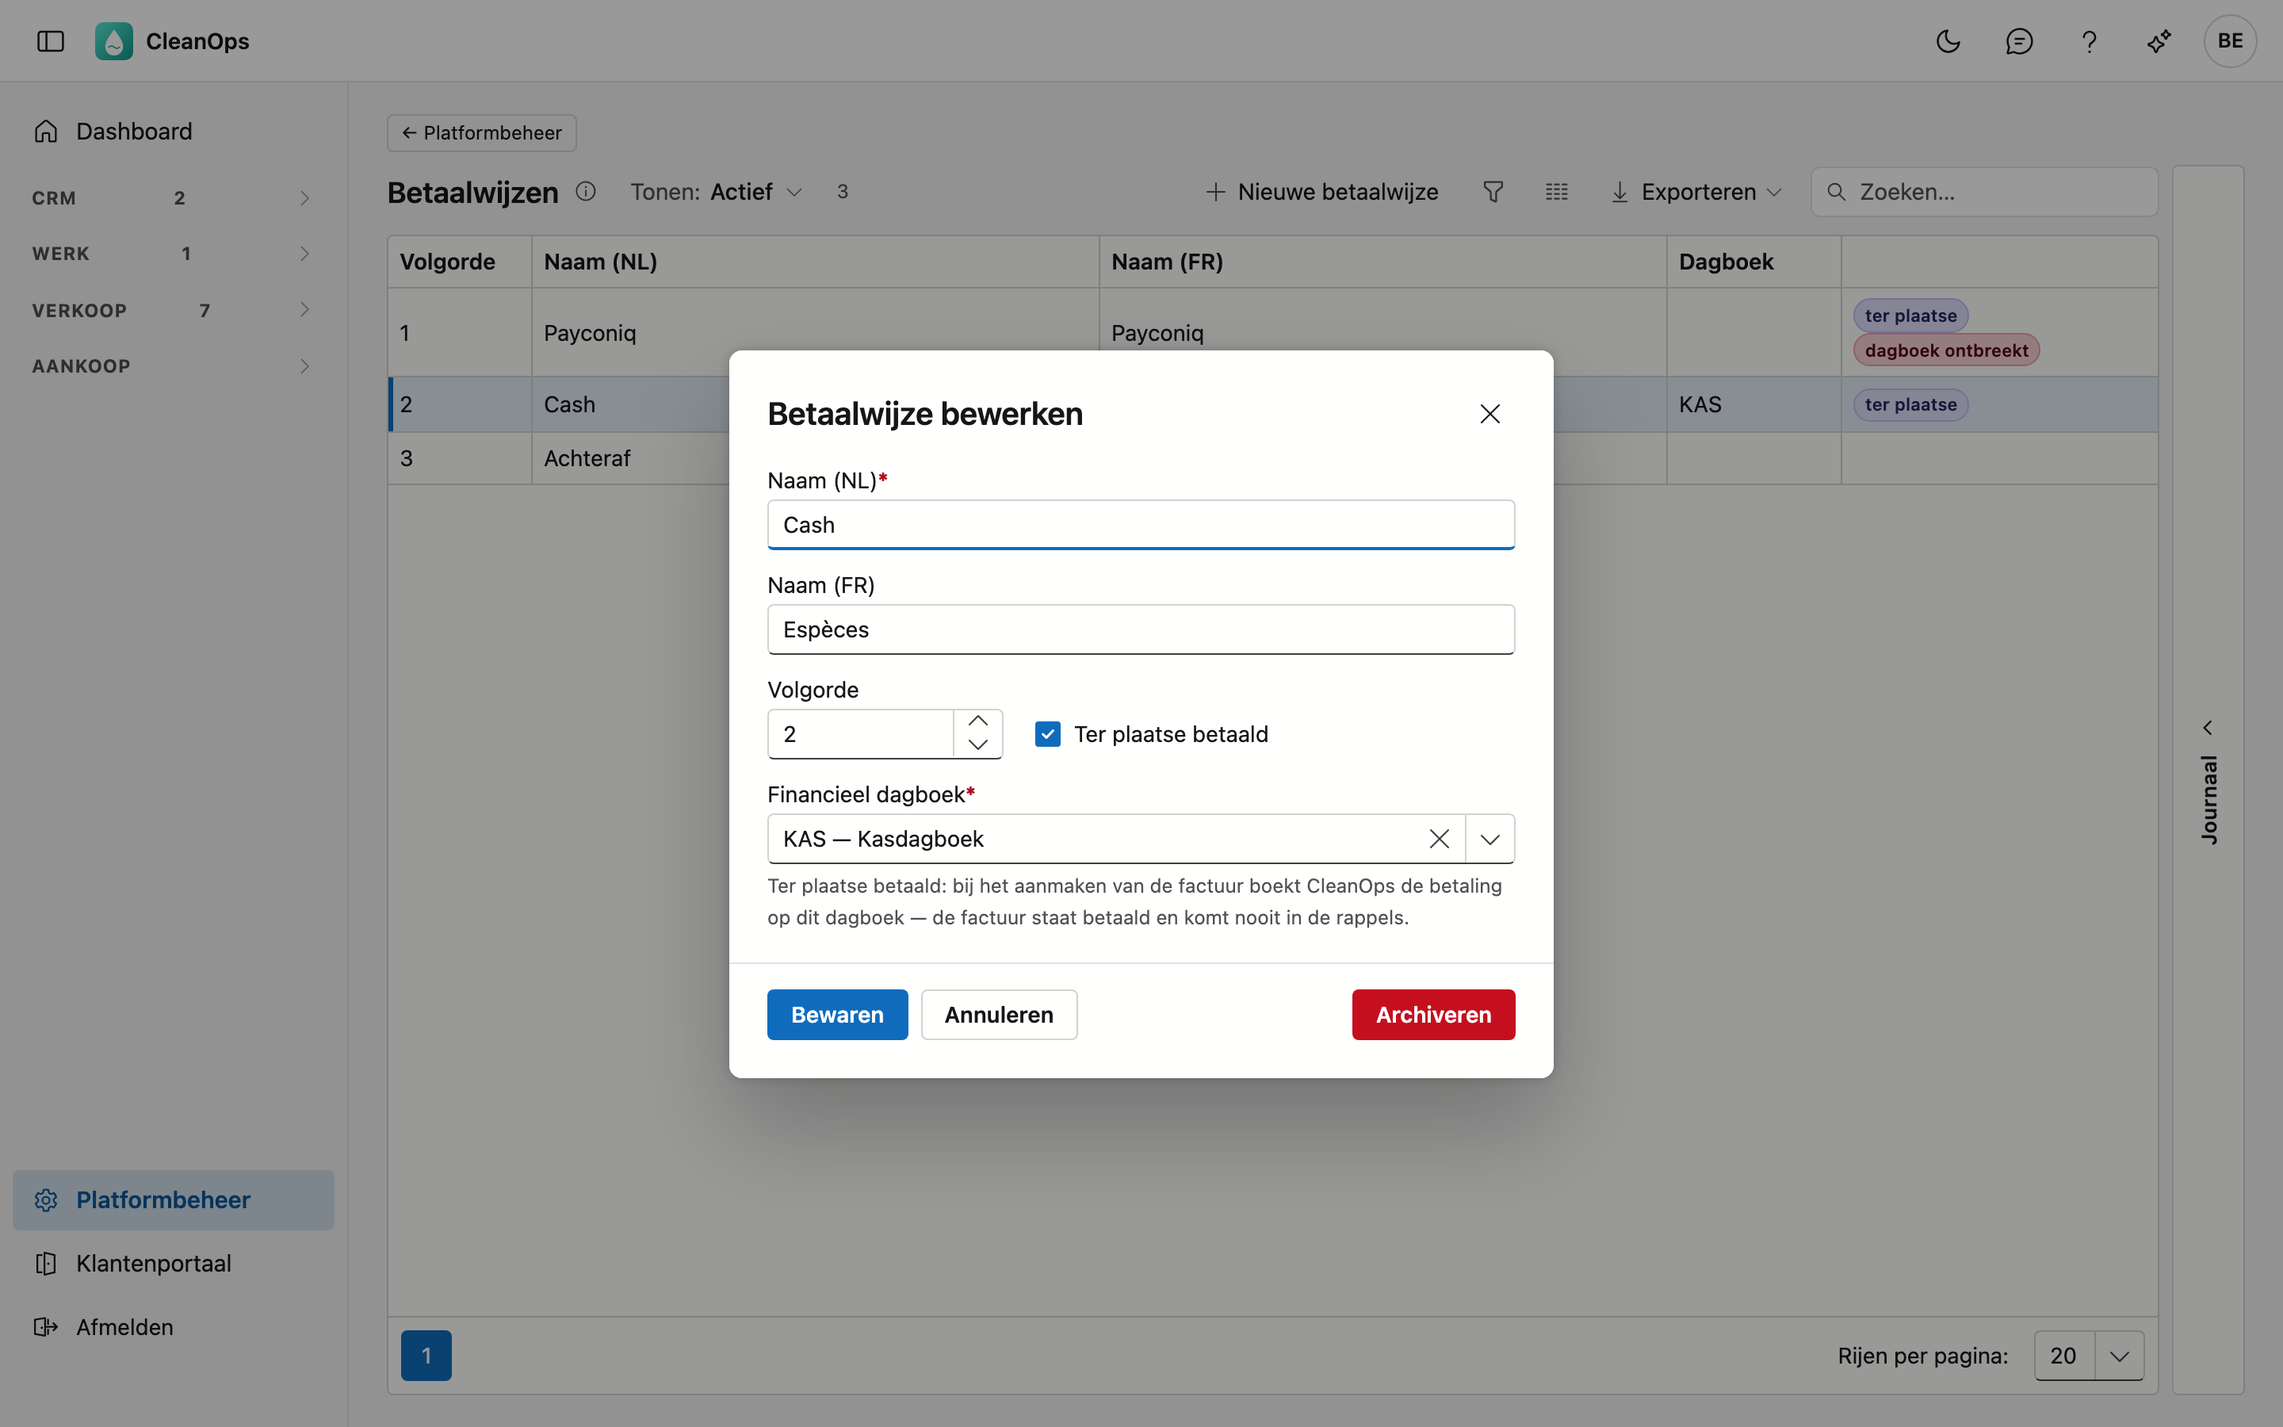
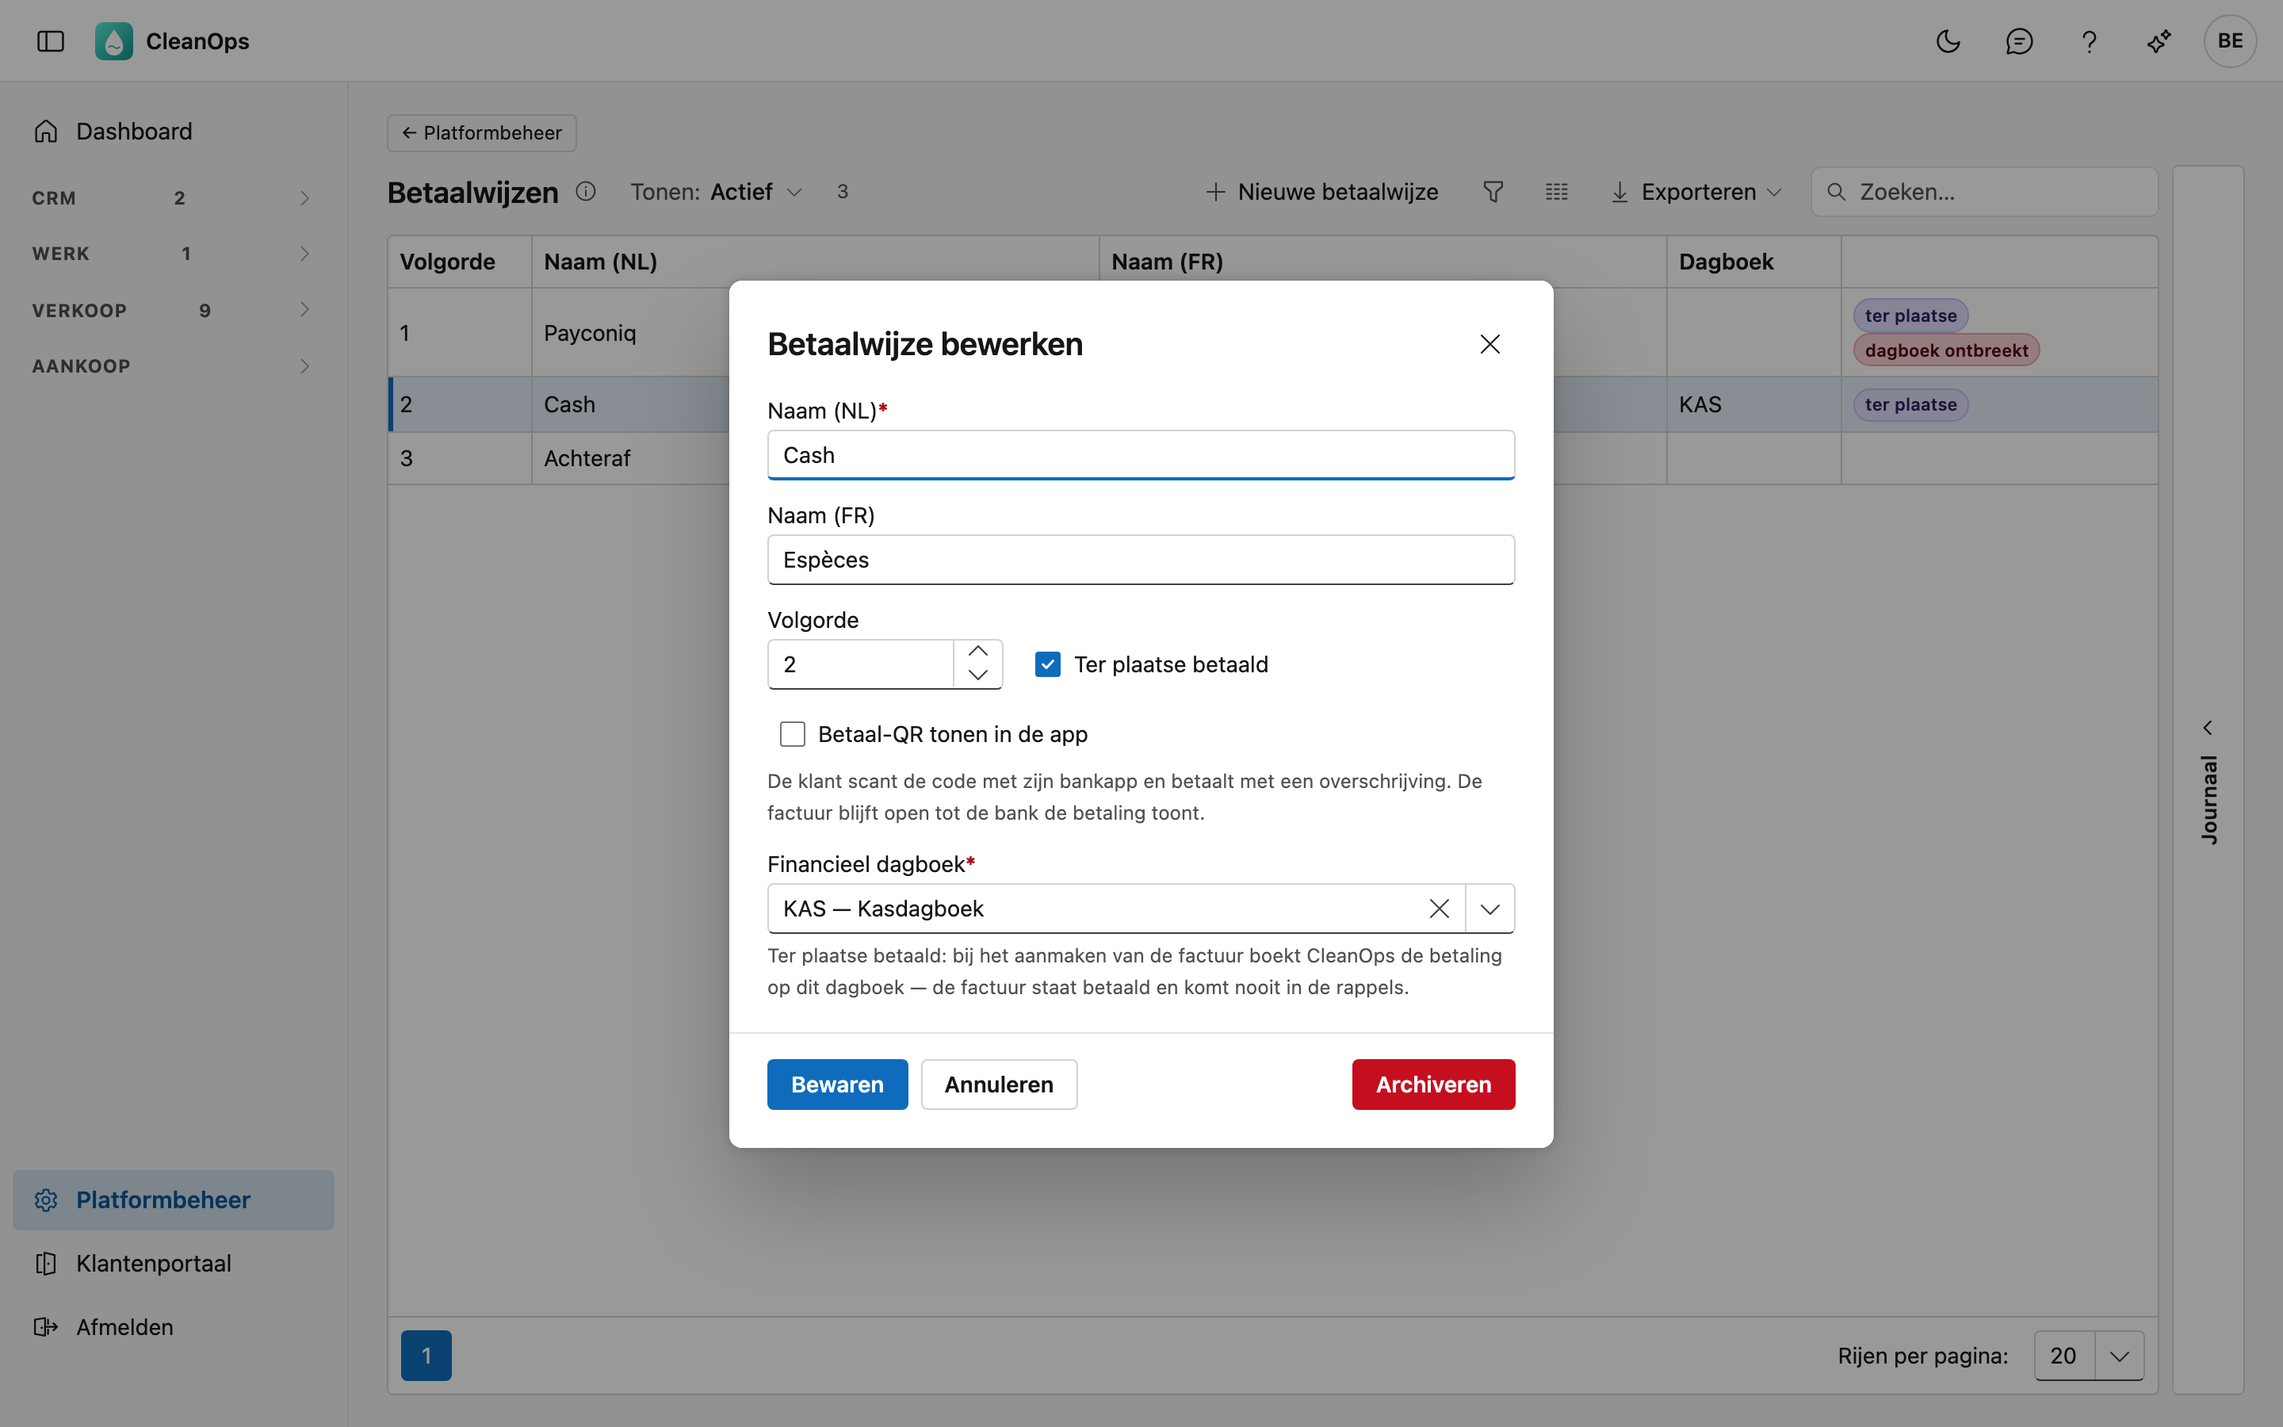
Betaal-QR op het werk: Betaalwijzen, Facturatie en de app (NL+FR), beeld van het venster vernieuwd (ADR-0019 in adm-cleanops)

Changed region(s): [[0.3125, 0.28, 0.6875, 0.8089], [0.3125, 0.1867, 0.6875, 0.2489], [0.4375, 0.4356, 0.5625, 0.4667]]

diff --git a/docs/beheer/betaalwijzen.fr.md b/docs/beheer/betaalwijzen.fr.md
@@ -23,7 +23,7 @@ Cliquez en bas du menu sur **Administration**, puis sur la tuile **Modes de paie
 | Journal | le journal financier où est enregistré un paiement sur place |
 
 Un mode **payé sur place** porte ce label. Si **journal manquant** figure à côté, CleanOps ne peut pas encore comptabiliser une
-facture avec ce mode : choisissez d'abord le journal.
+facture avec ce mode : choisissez d'abord le journal. Un mode qui affiche un code QR dans l'application porte le label **code QR**.
 
 CleanOps démarre avec trois modes : **Payconiq** et **Espèces** (sur place) et **Ultérieurement**. Ils n'ont pas encore de journal.
 
@@ -40,6 +40,7 @@ Cliquez sur **Nouveau mode**, ou double-cliquez sur une ligne existante.
 | **Ordre** | la place dans la liste de choix |
 | **Payé sur place** | à cocher si le client paie lors de l'intervention (Payconiq, espèces …) |
 | **Journal financier** | obligatoire avec **payé sur place** : le journal où arrive le paiement, par exemple votre caisse |
+| **Afficher un code QR de paiement dans l'application** | à cocher si le collaborateur montre au client, sur place, un code QR à payer avec son app bancaire (voir ci-dessous) ; pas avec **payé sur place** |
 
 !!! note "Ce que fait « payé sur place »"
     À la comptabilisation de la facture, CleanOps enregistre directement le paiement dans le journal choisi, pour le montant total,
@@ -47,6 +48,30 @@ Cliquez sur **Nouveau mode**, ou double-cliquez sur une ligne existante.
     L'impression et la facture électronique indiquent **Payé via Payconiq** (ou le nom de votre mode de paiement).
 
 Seul un journal **financier** peut être choisi (voir [Journaux](dagboeken.fr.md)).
+
+## Payer avec un code QR sur place
+
+Avec **Afficher un code QR de paiement dans l'application**, le collaborateur fait payer le client sur place avec son app
+bancaire. Aucune facture n'est établie sur place.
+
+1. Le collaborateur choisit ce mode sur l'ordre de travail dans l'[application](../app/werkorder.fr.md#payer-avec-un-code-qr) et
+   appuie sur **Afficher le code QR de paiement**.
+2. Le client scanne le code avec son app bancaire. Le montant, votre numéro de compte et une communication structurée y sont déjà.
+3. Le bureau facture l'ordre comme toujours dans la [facturation](../facturatie.fr.md#une-facture-par-mode-de-paiement). Il reçoit
+   sa propre facture avec **la même communication** que le code QR : vous reconnaissez ainsi le paiement sur votre compte.
+
+!!! note "Pourquoi pas payé sur place"
+    Seule votre banque voit si le client a vraiment payé. C'est pourquoi CleanOps n'enregistre **rien** sur place avec ce mode :
+    la facture reste ouverte jusqu'à ce que le paiement arrive sur votre compte. Si le client ne paie pas, la facture suit les
+    rappels habituels. Il n'y a rien à annuler.
+
+Ce dont le code QR a besoin :
+
+- votre **nom** et un **IBAN** valable sur la [fiche de l'entreprise](bedrijfsfiche.fr.md) ;
+- un **montant** et un **code TVA** sur l'ordre de travail. Le montant du code QR est le total de l'ordre **TVA comprise**, avec
+  les lignes supplémentaires.
+
+Si l'ordre est déjà facturé, l'application n'affiche pas de code QR : le client paie alors avec le code QR de la facture.
 
 ## Le journal
 
@@ -68,6 +93,10 @@ paiement, même *Espèces*, est bien facturé.
 **À la facturation, je reçois « n'a pas de journal financier valable ».**
 Le mode est payé sur place, mais il n'a pas de journal, ou le journal est archivé ou n'est pas un journal financier. Choisissez-le
 ici et recomptabilisez. Rien n'a encore été comptabilisé.
+
+**Un mode peut-il être à la fois payé sur place et afficher un code QR ?**
+Non. Payé sur place enregistre le paiement aussitôt, alors qu'avec un code QR personne ne sait encore si la banque l'exécute.
+CleanOps refuse la combinaison à l'enregistrement.
 
 **Puis-je supprimer un mode de paiement ?**
 Non : des ordres et des factures le portent. L'archiver le retire de la liste de choix sans rien toucher.

diff --git a/docs/beheer/betaalwijzen.md b/docs/beheer/betaalwijzen.md
@@ -22,7 +22,7 @@ Klik onderaan in het menu op **Platformbeheer** en daarna op de tegel **Betaalwi
 | Dagboek | het financieel dagboek waarop een betaling ter plaatse geboekt wordt |
 
 Een betaalwijze **ter plaatse** draagt dat label. Staat er **dagboek ontbreekt** naast, dan kan CleanOps een factuur met
-die betaalwijze nog niet boeken: kies eerst het dagboek.
+die betaalwijze nog niet boeken: kies eerst het dagboek. Een betaalwijze die in de app een QR toont, draagt het label **betaal-QR**.
 
 CleanOps start met drie betaalwijzen: **Payconiq** en **Contant** (ter plaatse) en **Achteraf**. Ze hebben nog geen dagboek.
 In een omgeving die vóór 6 november 2026 aangemaakt is, heet Contant nog **Cash**; de naam wijzigt u zoals hieronder.
@@ -40,6 +40,7 @@ Klik op **Nieuwe betaalwijze**, of dubbelklik op een bestaande rij.
 | **Volgorde** | de plaats in de keuzelijst |
 | **Ter plaatse betaald** | aanvinken als de klant betaalt bij het werk (Payconiq, cash …) |
 | **Financieel dagboek** | verplicht bij **ter plaatse betaald**: het dagboek waarop de betaling komt, bijvoorbeeld uw kas |
+| **Betaal-QR tonen in de app** | aanvinken als de medewerker de klant op het werk een QR toont om met zijn bankapp te betalen (zie hieronder); niet samen met **ter plaatse betaald** |
 
 !!! note "Wat ter plaatse betaald doet"
     Bij het boeken van de factuur boekt CleanOps meteen de betaling op het gekozen dagboek, voor het volle bedrag, op de dag
@@ -47,6 +48,30 @@ Klik op **Nieuwe betaalwijze**, of dubbelklik op een bestaande rij.
     de e-factuur staat **Betaald via Payconiq** (of de naam van uw betaalwijze).
 
 Enkel een **financieel** dagboek kan gekozen worden (zie [Dagboeken](dagboeken.md)).
+
+## Betalen met een QR op het werk
+
+Met **Betaal-QR tonen in de app** laat de medewerker de klant op het werk betalen met zijn bankapp. Er wordt ter plaatse geen
+factuur gemaakt.
+
+1. De medewerker kiest die betaalwijze op de werkorder in de [app](../app/werkorder.md#betalen-met-een-qr) en tikt op
+   **Betaal-QR tonen**.
+2. De klant scant de QR met zijn bankapp. Het bedrag, uw rekeningnummer en een gestructureerde mededeling staan er al in.
+3. Kantoor factureert de werkorder zoals altijd in de [facturatie](../facturatie.md#per-betaalwijze-een-factuur). Ze krijgt een
+   eigen factuur met **dezelfde mededeling** als de QR, zodat u de betaling op uw rekening aan die factuur herkent.
+
+!!! note "Waarom niet ter plaatse betaald"
+    Of de klant echt betaald heeft, ziet pas uw bank. Daarom boekt CleanOps bij zo'n betaalwijze **niets** ter plaatse: de
+    factuur blijft open tot de betaling op uw rekening staat. Betaalt de klant niet, dan volgt de factuur de gewone
+    herinneringen. Er hoeft niets teruggedraaid te worden.
+
+Wat de QR nodig heeft:
+
+- uw **naam** en een geldig **IBAN** op de [bedrijfsfiche](bedrijfsfiche.md);
+- een **bedrag** en een **btw-code** op de werkorder. Het bedrag in de QR is het totaal van de werkorder **inclusief btw**, met
+  de bijkomende lijnen.
+
+Is de werkorder al gefactureerd, dan toont de app geen QR: de klant betaalt dan met de QR op de factuur.
 
 ## Het journaal
 
@@ -68,6 +93,10 @@ betaalwijze, ook *Contant*, wordt wél gefactureerd.
 **Bij het factureren krijg ik "heeft geen geldig financieel dagboek".**
 De betaalwijze is ter plaatse betaald, maar er staat geen dagboek bij, of het dagboek is gearchiveerd of geen financieel
 dagboek. Kies het hier, en boek opnieuw. Er is dan nog niets geboekt.
+
+**Kan een betaalwijze tegelijk ter plaatse betaald zijn en een betaal-QR tonen?**
+Nee. Ter plaatse betaald boekt de betaling meteen, terwijl bij een betaal-QR nog niemand weet of de bank ze uitvoert. CleanOps
+weigert de combinatie bij het bewaren.
 
 **Kan ik een betaalwijze verwijderen?**
 Nee: werkorders en facturen dragen ze. Archiveren haalt ze uit de keuzelijst zonder iets te raken.

diff --git a/docs/facturatie.fr.md b/docs/facturatie.fr.md
@@ -36,6 +36,10 @@ Cliquez à gauche sur un client, ou parcourez la liste avec les flèches du clav
 la date d'exécution, la description, le code TVA et le montant. Sous la description figurent les mêmes signaux que dans la fenêtre
 Facturer, par exemple **attestation manquante** ou **sans montant**. Le sélecteur de colonnes affiche aussi la **quantité** et le **prix unitaire**.
 
+Si le client a payé sur place avec un [code QR](beheer/betaalwijzen.fr.md#payer-avec-un-code-qr-sur-place), vous voyez
+**payé par code QR**. Si le montant de l'ordre a changé depuis, vous voyez en rouge par exemple
+**code QR : 100,00 € scanné, facture 90,75 €**. Vérifiez-le avant de comptabiliser : le client a payé le montant scanné.
+
 Cliquez sur le numéro, ou double-cliquez sur la ligne, pour ouvrir l'ordre de travail et le compléter. **← Facturation** vous ramène au même
 client et à la même date, avec les nouvelles données. Sans accès aux ordres de travail, le numéro reste du texte simple.
 
@@ -99,6 +103,8 @@ de paiement**. La fenêtre montre le mode par ordre et indique d'avance combien 
   ne demande pas de virement et n'arrive pas dans les rappels. L'impression et la facture électronique indiquent **Payé via …**.
 - Si un mode payé sur place n'a pas de journal valable, **rien** n'est comptabilisé, pas non plus les autres factures.
 - Avec un acompte, un seul mode de paiement est possible : la déduction figure sur une seule facture.
+- Un ordre payé avec un **code QR** reçoit toujours **sa propre facture**, avec la communication de ce code. La fenêtre le compte
+  dans le nombre de factures. Il ne peut pas être ajouté à une facture existante.
 
 Si le total net est négatif, le document devient une **note de crédit**. La fenêtre le dit d'avance : la phrase sous la liste
 parle de la note de crédit et le bouton s'appelle **Comptabiliser la note de crédit**. Si des ordres avec un montant positif et

diff --git a/docs/facturatie.md b/docs/facturatie.md
@@ -34,6 +34,10 @@ Klik links op een klant, of ga met de pijltjestoetsen door de lijst. Rechts ziet
 uitvoeringsdatum, de omschrijving, de btw-code en het bedrag. Onder de omschrijving staan dezelfde signalen als in het venster
 Factureren, bijvoorbeeld **attest ontbreekt** of **geen bedrag**. Met de kolomkiezer toont u ook het **aantal** en de **eenheidsprijs**.
 
+Betaalde de klant op het werk met een [betaal-QR](beheer/betaalwijzen.md#betalen-met-een-qr-op-het-werk), dan staat er
+**betaald met betaal-QR**. Veranderde het bedrag van de werkorder daarna, dan staat er in het rood bijvoorbeeld
+**betaal-QR: € 100,00 gescand, factuur € 90,75**. Kijk dat na vóór u boekt: de klant betaalde het gescande bedrag.
+
 Klik op het nummer, of dubbelklik op de rij, om de werkorder te openen en aan te vullen. Met **← Facturatie** komt u terug bij dezelfde
 klant en dezelfde datum, met de nieuwe gegevens. Zonder toegang tot de werkorders ziet u het nummer als gewone tekst.
 
@@ -94,6 +98,8 @@ factuur**. Het venster toont de betaalwijze per werkorder en zegt vooraf hoeveel
   staat betaald, vraagt geen overschrijving en komt niet in de rappels. Op de afdruk en de e-factuur staat **Betaald via …**.
 - Heeft een betaalwijze ter plaatse geen geldig dagboek, dan wordt er **niets** geboekt, ook de andere facturen niet.
 - Met een voorschot kan er maar één betaalwijze zijn: de aftrek hoort op één factuur.
+- Een werkorder die met een **betaal-QR** betaald werd, krijgt altijd **een eigen factuur**, met de mededeling uit die QR. Het
+  venster telt ze mee in het aantal facturen. Bij een bestaande factuur voegen kan niet.
 
 Is het nettototaal negatief, dan wordt het document een **creditnota**. Het venster zegt dat vooraf: de zin onder de lijst
 spreekt van de creditnota en de knop heet **Creditnota boeken**. Staan er werkorders met een positief én een negatief bedrag

diff --git a/docs/app/werkorder.fr.md b/docs/app/werkorder.fr.md
@@ -121,6 +121,21 @@ l'ordre de travail dans CleanOps.
 
 En dessous figurent les boutons pour terminer : voir [Faire signer](laten-tekenen.fr.md).
 
+### Payer avec un code QR
+
+À partir de la version 1.3.2 de l'application. Si le collaborateur choisit un mode qui affiche un
+[code QR de paiement](../beheer/betaalwijzen.fr.md#payer-avec-un-code-qr-sur-place), le bouton **Afficher le code QR de paiement**
+apparaît. Il appuie dessus et fait scanner le code par le client avec son app bancaire. Le montant, votre numéro de compte et la
+communication y sont déjà ; sous le code, ils figurent aussi en toutes lettres, pour qui préfère les recopier.
+
+- Le montant est le total de l'ordre **TVA comprise**, tel que le bureau l'a saisi. Le champ **Montant (TVAC)** ne joue ici aucun rôle.
+- Il n'y a pas de bouton « payé » : le bureau voit sur le compte si le paiement est arrivé. Le collaborateur n'a rien à indiquer.
+- Le bouton reste aussi après avoir terminé l'ordre, car le client paie souvent à la fin.
+- Le code QR demande du réseau : CleanOps retient quel code le client a vu, pour que la facture reçoive la même communication.
+
+S'il manque quelque chose, l'application le dit : par exemple *Il n'y a pas encore de montant à payer*, ou que le nom ou l'IBAN
+manque sur la fiche de l'entreprise. Si l'ordre est déjà facturé, le client paie avec le code QR de la facture.
+
 ## Questions fréquentes
 
 **Où trouver les photos d'un collaborateur ?**

diff --git a/docs/app/werkorder.md b/docs/app/werkorder.md
@@ -118,6 +118,21 @@ CleanOps.
 
 Daaronder staan de knoppen om af te ronden: zie [Laten tekenen](laten-tekenen.md).
 
+### Betalen met een QR
+
+Vanaf versie 1.3.2 van de app. Kiest de medewerker een betaalwijze die een [betaal-QR](../beheer/betaalwijzen.md#betalen-met-een-qr-op-het-werk)
+toont, dan verschijnt de knop **Betaal-QR tonen**. Hij tikt erop en laat de klant de code scannen met zijn bankapp. Het bedrag,
+uw rekeningnummer en de mededeling staan er al in; onder de code staan ze ook voluit, voor wie ze liever overtypt.
+
+- Het bedrag is het totaal van de werkorder **inclusief btw**, zoals kantoor het ingaf. Het veld **Bedrag (incl. btw)** speelt
+  hier geen rol.
+- Er is geen knop "betaald": of de betaling binnen is, ziet kantoor op de rekening. De medewerker hoeft niets aan te duiden.
+- De knop staat er ook na het afronden, want de klant betaalt vaak op het einde.
+- De QR vraagt bereik: CleanOps onthoudt welke QR de klant te zien kreeg, zodat de factuur dezelfde mededeling krijgt.
+
+Ontbreekt er iets, dan zegt de app wat: bijvoorbeeld *Er is nog geen bedrag om te betalen*, of dat de naam of het IBAN op de
+bedrijfsfiche ontbreekt. Is de werkorder al gefactureerd, dan betaalt de klant met de QR op de factuur.
+
 ## Veelgestelde vragen
 
 **Waar vind ik de foto's van een medewerker?**
